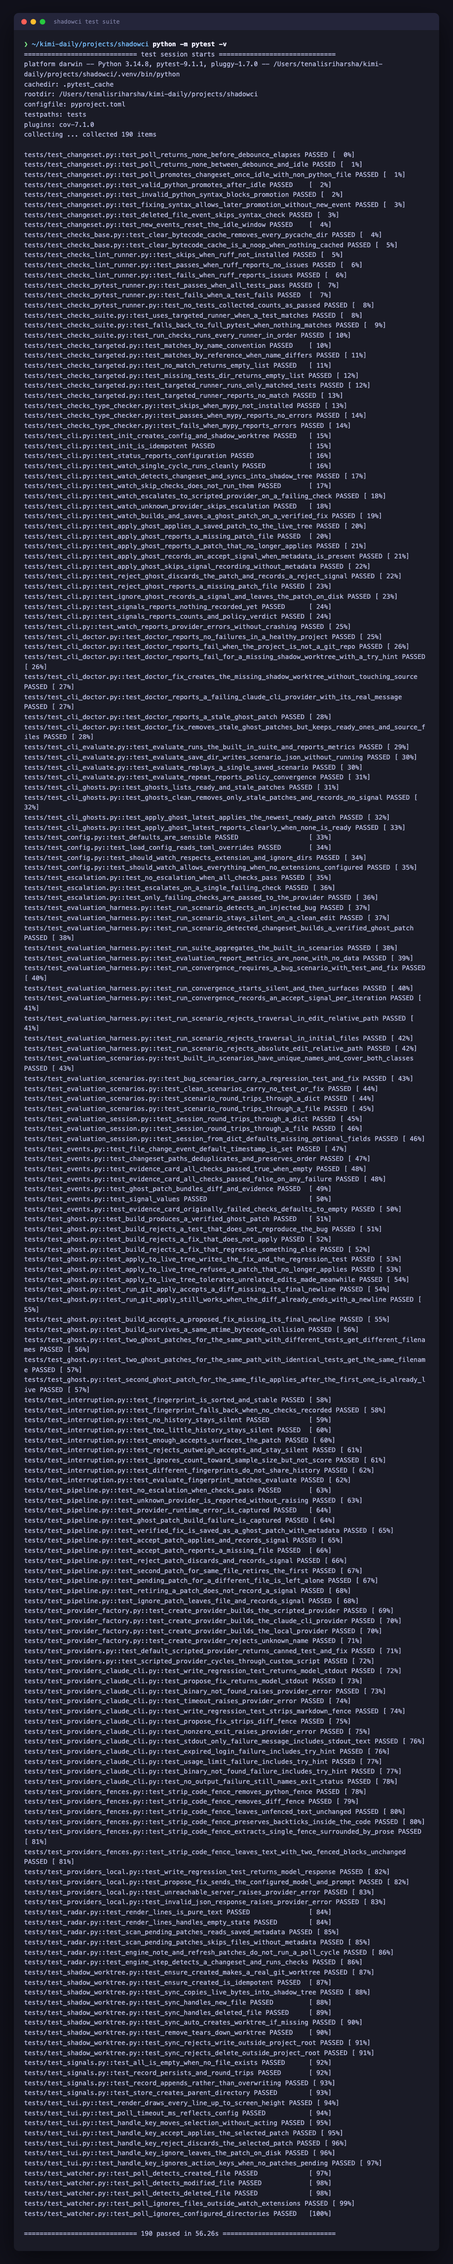
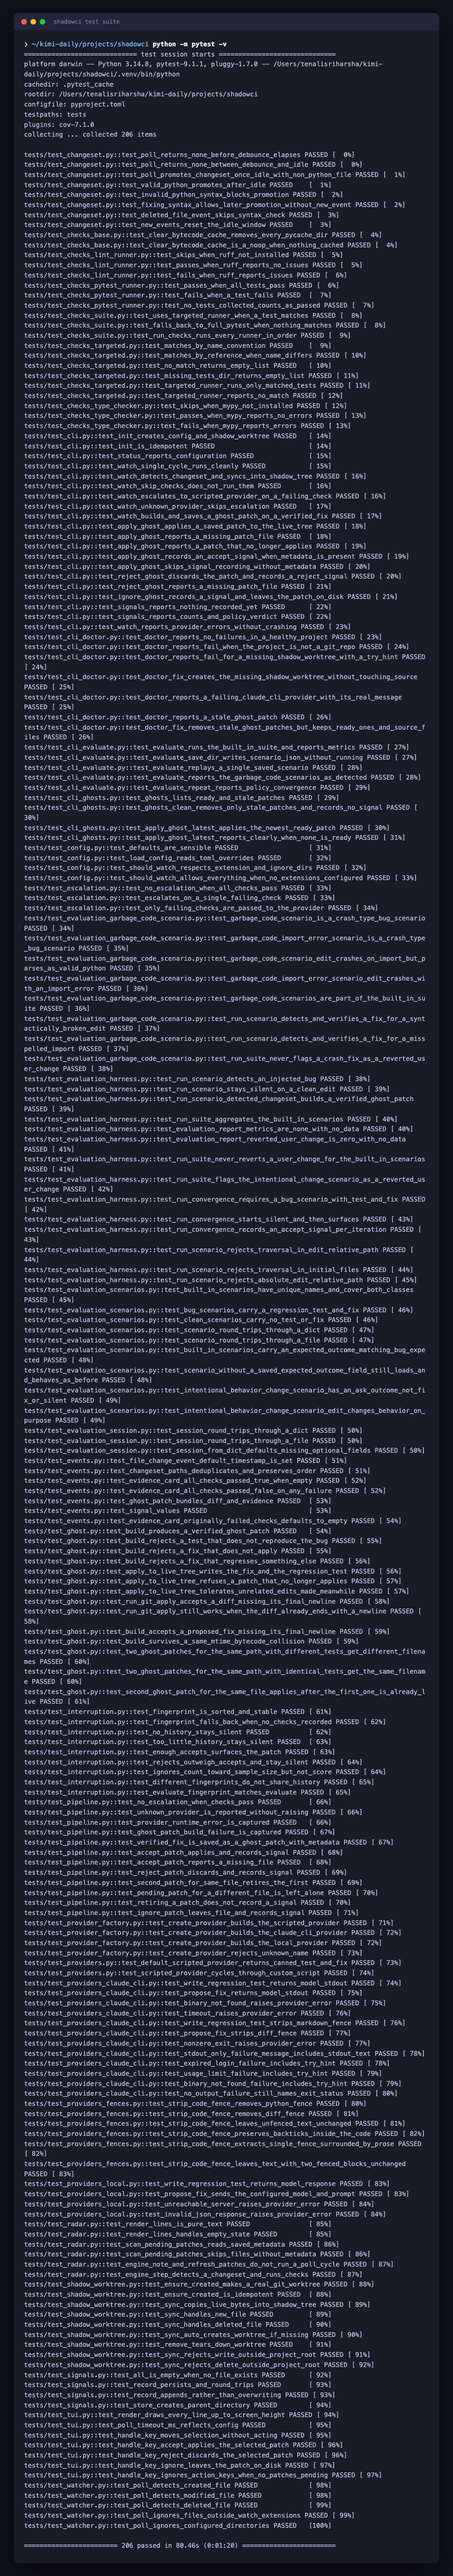
Fix #36: Evaluation has no garbage-code scenario to guard against over-eager revert detection (#42)
* test: add garbage-code crash scenarios to guard the upcoming revert check

Issue #36: fixing genuinely broken code (a syntax-adjacent crash, not a
logic bug) often restores the exact lines the user removed, which looks
identical to reverting an intentional change. These regression scenarios
pin down that the pipeline must still produce a confident, auto-accepted
fix for a NameError/ImportError-type crash, and that reverted_user_change
(issue #35) must not flag it — the guard issue #37's revert check must
respect.

garbage_code_scenario and garbage_code_import_error_scenario don't exist
yet in shadowci.evaluation.scenarios, so the new test file fails to
collect, and the cli evaluate test's hardcoded scenario count (5) no
longer matches once they're wired into built_in_scenarios (7).

* Fix #36: Evaluation has no garbage-code scenario to guard the revert check

Add garbage_code_scenario (NameError) and garbage_code_import_error_scenario
(ImportError) to the built-in suite. Both scenarios leave calc.py unable to
import, and the correct fix restores the committed lines — which, by diff
alone, looks exactly like reverting the user's change. Since bug scenarios
default expected_outcome to "fix", the existing reverted_user_change metric
already excludes them without any harness change.

Regenerate the evaluate and test-suite screenshots to reflect the grown
built-in suite, and document the new scenarios in the README.

Changed region(s): [[0.0306, 0.0, 0.9184, 0.9949], [0.6122, 0.0, 0.7347, 0.0311]]

diff --git a/tests/test_evaluation_garbage_code_scenario.py b/tests/test_evaluation_garbage_code_scenario.py
@@ -1,0 +1,123 @@
+"""Regression tests for issue #36: a crash-type scenario the planned revert
+check (issue #37) must never mistake for an over-eager revert.
+
+A fix for genuinely broken code (code that can't even run) often looks,
+diff-wise, exactly like reverting the user's last change — because
+restoring the last-good lines from HEAD *is* the correct fix. These
+scenarios pin that behavior down: the pipeline must still produce a
+confident, verified, auto-accepted fix for a crash, and the `reverted_user_change`
+metric (added in issue #35) must not flag it, even though its diff
+literally puts the user's removed/changed lines back.
+"""
+
+from __future__ import annotations
+
+import ast
+
+import pytest
+
+from shadowci.evaluation.harness import run_scenario, run_suite
+from shadowci.evaluation.scenarios import (
+    built_in_scenarios,
+    garbage_code_import_error_scenario,
+    garbage_code_scenario,
+)
+
+
+def _module_contents(scenario):
+    """The module's committed (clean) and edited (buggy) source as strings."""
+    edit = scenario.session.edits[0]
+    clean = scenario.session.initial_files[edit.relative_path]
+    buggy = edit.content
+    assert buggy is not None
+    return clean, buggy
+
+
+def test_garbage_code_scenario_is_a_crash_type_bug_scenario():
+    scenario = garbage_code_scenario()
+
+    assert scenario.bug_expected is True
+    assert scenario.expected_outcome == "fix"
+    assert scenario.regression_test
+    assert scenario.proposed_fix
+    assert len(scenario.session.edits) == 1
+
+
+def test_garbage_code_import_error_scenario_is_a_crash_type_bug_scenario():
+    scenario = garbage_code_import_error_scenario()
+
+    assert scenario.bug_expected is True
+    assert scenario.expected_outcome == "fix"
+    assert scenario.regression_test
+    assert scenario.proposed_fix
+    assert len(scenario.session.edits) == 1
+
+
+def test_garbage_code_scenario_edit_crashes_on_import_but_parses_as_valid_python():
+    # The edit must NOT be an actual SyntaxError: shadowci's ChangeSetDetector
+    # treats a file that fails to parse as "still mid-flight" and never even
+    # promotes it to a change set, so a true syntax error could never reach
+    # the pipeline at all. The crash has to surface at runtime (NameError),
+    # the way a stray identifier or a misspelled name actually behaves.
+    scenario = garbage_code_scenario()
+    clean, buggy = _module_contents(scenario)
+
+    ast.parse(buggy)  # must not raise SyntaxError
+
+    exec(compile(clean, "<clean>", "exec"), {})  # the committed version runs fine
+
+    with pytest.raises(NameError):
+        exec(compile(buggy, "<buggy>", "exec"), {})
+
+
+def test_garbage_code_import_error_scenario_edit_crashes_with_an_import_error():
+    scenario = garbage_code_import_error_scenario()
+    clean, buggy = _module_contents(scenario)
+
+    ast.parse(buggy)  # must not raise SyntaxError
+
+    exec(compile(clean, "<clean>", "exec"), {})  # the committed version runs fine
+
+    with pytest.raises(ImportError):
+        exec(compile(buggy, "<buggy>", "exec"), {})
+
+
+def test_garbage_code_scenarios_are_part_of_the_built_in_suite():
+    scenarios = built_in_scenarios()
+
+    assert garbage_code_scenario() in scenarios
+    assert garbage_code_import_error_scenario() in scenarios
+
+
+def test_run_scenario_detects_and_verifies_a_fix_for_a_syntactically_broken_edit():
+    result = run_scenario(garbage_code_scenario())
+
+    assert result.detected is True
+    assert result.true_positive is True
+    assert result.action == "accept"
+    verified = [cs for cs in result.changesets if cs.outcome.ghost_patch is not None]
+    assert len(verified) == 1
+    assert verified[0].outcome.ghost_patch.evidence.all_checks_passed
+
+
+def test_run_scenario_detects_and_verifies_a_fix_for_a_misspelled_import():
+    result = run_scenario(garbage_code_import_error_scenario())
+
+    assert result.detected is True
+    assert result.true_positive is True
+    assert result.action == "accept"
+    verified = [cs for cs in result.changesets if cs.outcome.ghost_patch is not None]
+    assert len(verified) == 1
+    assert verified[0].outcome.ghost_patch.evidence.all_checks_passed
+
+
+def test_run_suite_never_flags_a_crash_fix_as_a_reverted_user_change():
+    # Both fixes restore the committed lines over the user's broken edit —
+    # by the raw diff that would look exactly like reverting a real
+    # behavior change (issue #35's false positive). It must not be counted
+    # as one here: the code could not run, so restoring it was simply correct.
+    report = run_suite((garbage_code_scenario(), garbage_code_import_error_scenario()))
+
+    assert report.true_positives == 2
+    assert report.false_negatives == 0
+    assert report.reverted_user_change == 0

diff --git a/src/shadowci/evaluation/scenarios.py b/src/shadowci/evaluation/scenarios.py
@@ -294,6 +294,73 @@ def intentional_behavior_change_scenario() -> Scenario:
     )
 
 
+def garbage_code_scenario() -> Scenario:
+    """A save leaves a stray debug line with a misspelled name in `calc.py`,
+    crashing the module at import with a `NameError`.
+
+    The correct fix simply restores the committed lines — which looks,
+    diff-wise, exactly like reverting the user's last change (issue #35's
+    false positive), even though the code could not even run. This pins
+    down that a crash fix must still be a confident, auto-accepted fix, and
+    must never be counted as `reverted_user_change`.
+    """
+    return _bug_scenario(
+        name="garbage-code",
+        description="a stray debug line with a misspelled name crashes calc.py at import",
+        module_filename="calc.py",
+        test_filename="tests/test_calc.py",
+        clean_content="def add(a, b):\n    return a + b\n",
+        buggy_content="def add(a, b):\n    return a + b\ncache_result = cahce_result\n",
+        regression_test="from calc import add\n\n\ndef test_add():\n    assert add(2, 3) == 5\n",
+        proposed_fix=(
+            "--- a/calc.py\n+++ b/calc.py\n@@ -1,3 +1,2 @@\n"
+            " def add(a, b):\n     return a + b\n-cache_result = cahce_result\n"
+        ),
+    )
+
+
+def garbage_code_import_error_scenario() -> Scenario:
+    """A save misspells an imported name in `calc.py`, crashing the module
+    at import with an `ImportError` — the same shape as
+    `garbage_code_scenario` but with a different crash type, so every kind
+    the revert check must respect is covered.
+    """
+    return _bug_scenario(
+        name="garbage-code-import-error",
+        description="a misspelled import crashes calc.py at import with an ImportError",
+        module_filename="calc.py",
+        test_filename="tests/test_calc.py",
+        clean_content=(
+            "from math import sqrt\n"
+            "\n"
+            "\n"
+            "def hypotenuse(a, b):\n"
+            "    return sqrt(a * a + b * b)\n"
+        ),
+        buggy_content=(
+            "from math import sqrtt\n"
+            "\n"
+            "\n"
+            "def hypotenuse(a, b):\n"
+            "    return sqrtt(a * a + b * b)\n"
+        ),
+        regression_test=(
+            "from calc import hypotenuse\n\n\n"
+            "def test_hypotenuse():\n    assert hypotenuse(3, 4) == 5\n"
+        ),
+        proposed_fix=(
+            "--- a/calc.py\n+++ b/calc.py\n@@ -1,5 +1,5 @@\n"
+            "-from math import sqrtt\n"
+            "+from math import sqrt\n"
+            " \n"
+            " \n"
+            " def hypotenuse(a, b):\n"
+            "-    return sqrtt(a * a + b * b)\n"
+            "+    return sqrt(a * a + b * b)\n"
+        ),
+    )
+
+
 def built_in_scenarios() -> tuple[Scenario, ...]:
     """The default scenario suite the `evaluate` CLI command replays."""
     return (
@@ -302,4 +369,6 @@ def built_in_scenarios() -> tuple[Scenario, ...]:
         inverted_condition_scenario(),
         clean_rename_scenario(),
         clean_comment_scenario(),
+        garbage_code_scenario(),
+        garbage_code_import_error_scenario(),
     )

diff --git a/tests/test_cli_evaluate.py b/tests/test_cli_evaluate.py
@@ -26,7 +26,9 @@ def test_evaluate_save_dir_writes_scenario_json_without_running(tmp_path: Path, 
 
     assert exit_code == 0
     written = sorted(save_dir.glob("*.json"))
-    assert len(written) == 5
+    # Issue #36 adds two crash-type scenarios (garbage-code,
+    # garbage-code-import-error) to the built-in suite, growing it from 5 to 7.
+    assert len(written) == 7
     assert "wrote" in out
 
     data = json.loads(written[0].read_text())
@@ -46,6 +48,23 @@ def test_evaluate_replays_a_single_saved_scenario(tmp_path: Path, capsys):
     assert exit_code == 0
     assert "off-by-one-operator [bug]: DETECTED" in out
     assert "scenarios run           : 1" in out
+
+
+def test_evaluate_reports_the_garbage_code_scenarios_as_detected(capsys):
+    # Issue #36: a crash-type scenario (broken code, not a logic bug) must
+    # still show up in the default `evaluate` run and be detected, so it is
+    # part of the regression guard issue #37's revert check must not break.
+    from shadowci.evaluation.scenarios import (
+        garbage_code_import_error_scenario,
+        garbage_code_scenario,
+    )
+
+    exit_code = main(["evaluate"])
+    out = capsys.readouterr().out
+
+    assert exit_code == 0
+    assert f"{garbage_code_scenario().session.name} [bug]: DETECTED" in out
+    assert f"{garbage_code_import_error_scenario().session.name} [bug]: DETECTED" in out
 
 
 def test_evaluate_repeat_reports_policy_convergence(capsys):

diff --git a/README.md b/README.md
@@ -55,7 +55,13 @@ That last metric counts a saved, verified fix whose diff would put back
 lines the user had deliberately changed — the case where a confidently
 "verified" fix is still the wrong call because the edit broke an old test
 on purpose, exercised by the (not built-in) `intentional-behavior-change`
-scenario in `shadowci.evaluation.scenarios`.
+scenario in `shadowci.evaluation.scenarios`. The built-in suite also
+includes `garbage-code` and `garbage-code-import-error`: edits that leave
+`calc.py` unable to even import (a `NameError`/`ImportError`, not a logic
+bug), whose correct fix happens to restore the exact lines the user's edit
+changed. They pin down the opposite case — that restoring HEAD's lines is
+sometimes simply the right fix for a crash, so `reverted_user_change` must
+never flag it.
 
 `shadowci doctor` checks whether ShadowCI can actually work in the current
 project — is it a git repository, can `shadowci.toml` be read, does the
